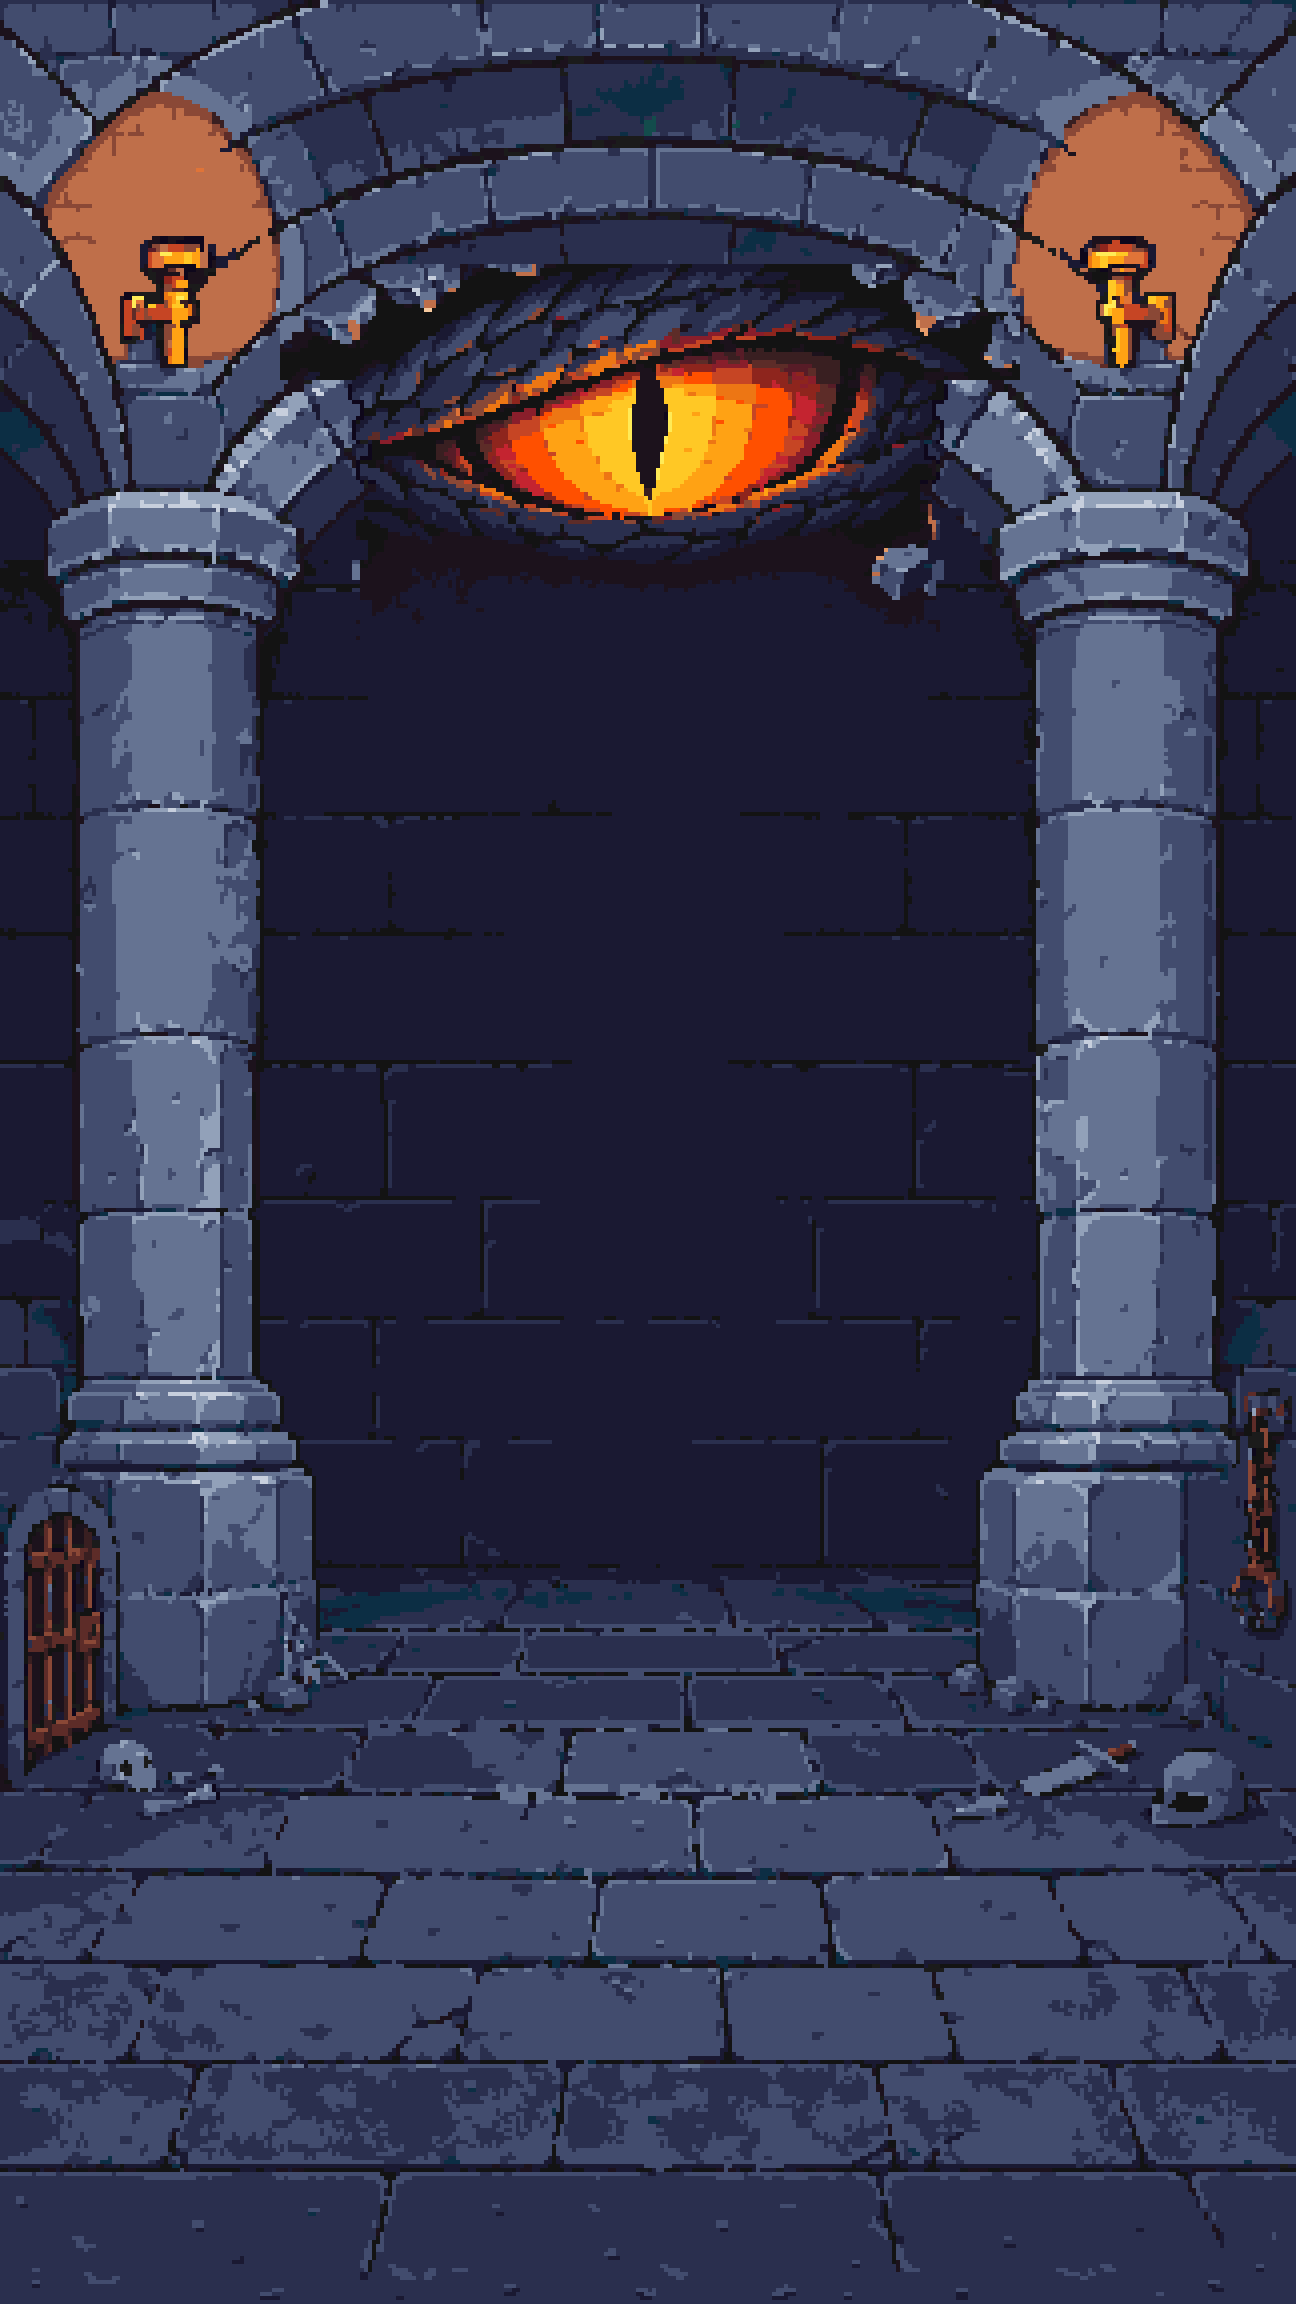
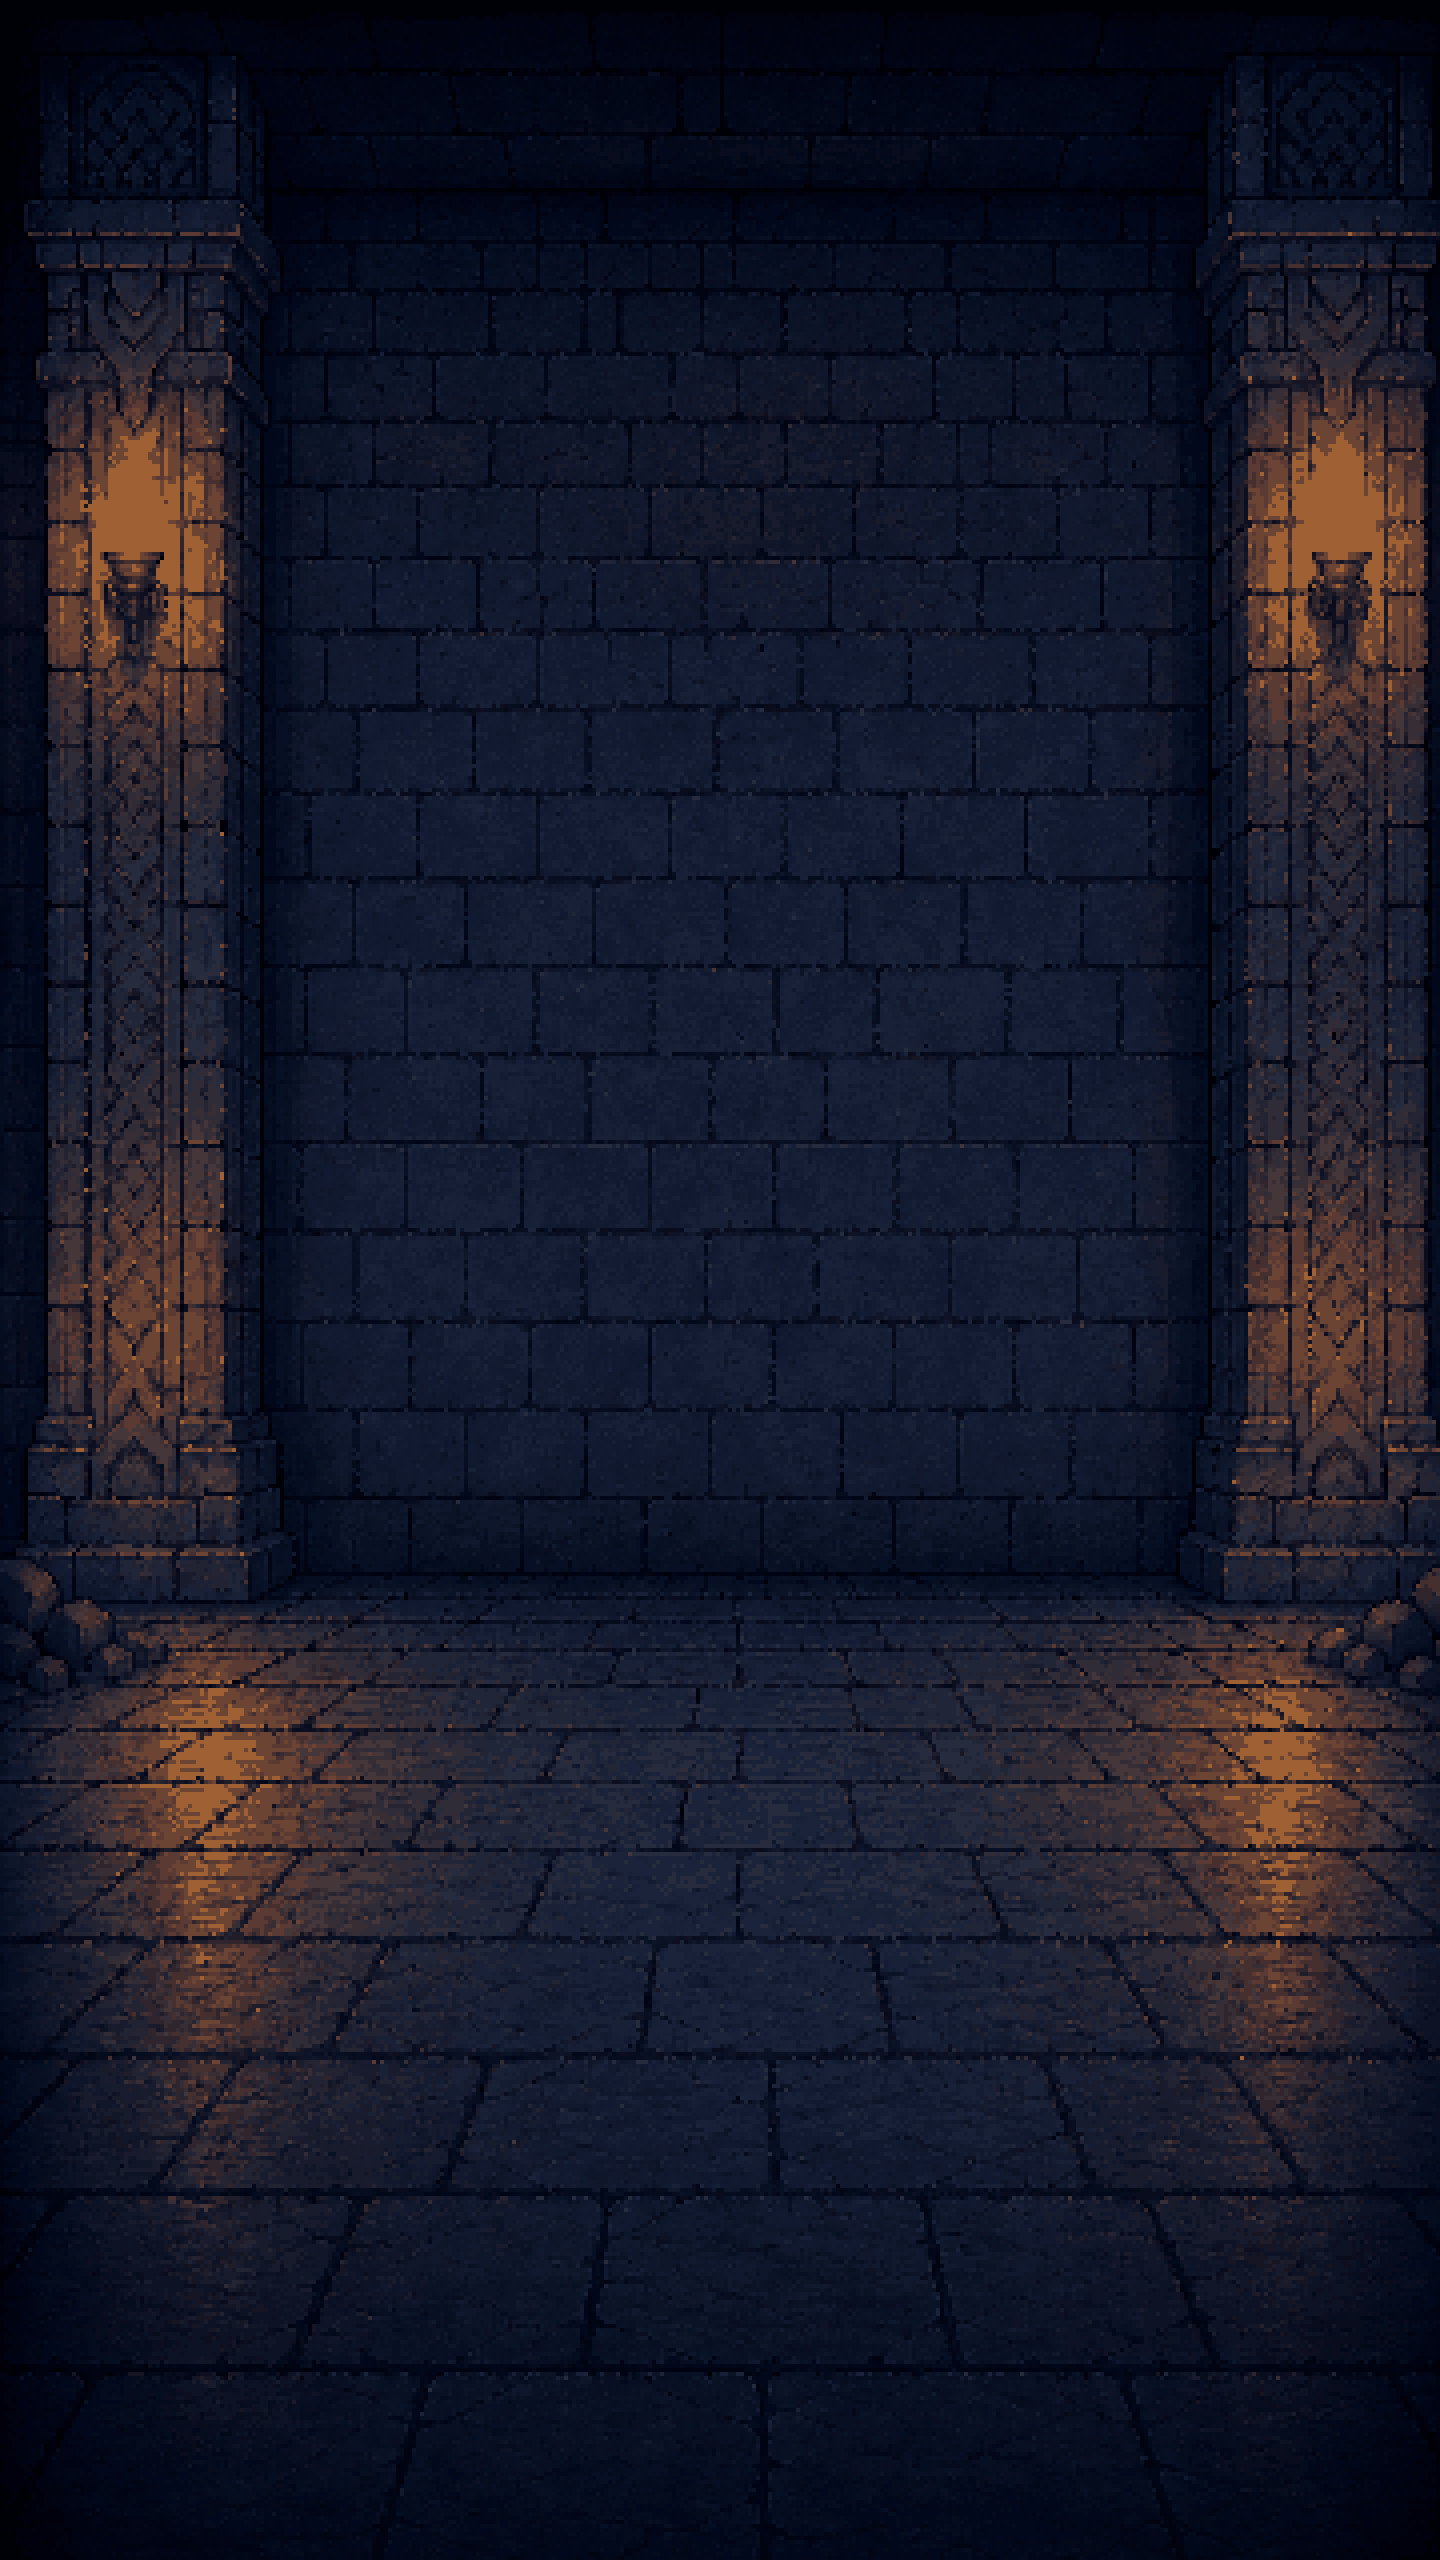
Pratala: new hall backgrounds, the eye's breach follows the board
The halls are remade (one room: a cold stone hall, and the same hall
burnt and broken for free spins) at 640x360 / 360x640 art pixels,
painted with the back wall intact. The dragon's eye in its breach is
now a layer that follows the board: centred over it, between the header
and the frame, 30% tucked behind the frame's top band, so it shows on
every screen shape. Torches and floor fires are placed for the new
halls; the floor fires are cut to a few small licks and the torch light
is dimmed, since the new halls paint their own lava and torch glow.

diff --git a/apps/pratala/src/components/Background.svelte b/apps/pratala/src/components/Background.svelte
@@ -16,6 +16,9 @@
 	import { getContext } from '../game/context';
 	import { FLOOR_FIRES } from '../game/floorFires';
 	import { TORCHES } from '../game/torches';
+	import { EYES } from '../game/dragonEye';
+	import { FRAME_ART_PIXEL } from '../game/constants';
+	import { stateUi } from 'state-shared';
 	import { animate } from '../game/motion';
 	import { createHallHeat, HEAT_FROM, HEAT_TO, type HallHeat } from '../game/hallHeat';
 	import { hallMood } from '../game/hallMood.svelte';
@@ -24,9 +27,10 @@
 	import FloorFires from './FloorFires.svelte';
 	import Torches from './Torches.svelte';
 
-	// The dragon's hall, in a wide and a tall composition (576 × 324 and 324 × 576 art pixels).
-	// The dragon's eye looks out of the broken back wall; its blinks and glances are drawn over the
-	// picture (DragonEye).
+	// The dragon's hall, in a wide and a tall composition (640 × 360 and 360 × 640 art pixels), one
+	// room: a cold stone hall, and the same hall burnt and broken for free spins (remade 2026-11-18,
+	// workspace output/dragon/bg-2026-11-18). The dragon's eye looks out of a breach in the back
+	// wall, a layer that follows the board (DragonEye, below).
 	// Its torches are painted without their flames, which burn over the picture (Torches); in the
 	// bonus hall fires burn on the floor too (FloorFires).
 	// Each covers the canvas; the tall one is used where the screen is taller than it is wide.
@@ -35,8 +39,8 @@
 	// fires fade over the other's. Anything else that sets the game type (a resumed round, a new
 	// spin) changes the hall at once.
 	const SIZES = {
-		Landscape: { width: 576, height: 324 },
-		Portrait: { width: 324, height: 576 },
+		Landscape: { width: 640, height: 360 },
+		Portrait: { width: 360, height: 640 },
 	};
 
 	const context = getContext();
@@ -64,6 +68,32 @@
 			origin: {
 				x: canvas.width * 0.5 - sizes.width * scale * 0.5,
 				y: canvas.height * 0.5 - sizes.height * scale * 0.5,
+			},
+		};
+	});
+	// The eye in its breach is a layer of its own that follows the board, so it shows whatever the
+	// screen's shape: centred over the board, between the header and the frame's top band, its
+	// lower TUCK behind the band, as big as that gap allows and never bigger than painted. The user
+	// picked 30% from a prototype (2026-11-17): at half, the frame hid half the iris on desktops.
+	const TUCK = 0.3;
+	// the eye's layer: its own origin and art pixel, so the breach and the eye's frames land on it
+	const eyeLayer = $derived.by(() => {
+		const main = context.stateLayoutDerived.mainLayout();
+		const board = context.stateGameDerived.boardLayout();
+		const toX = (u: number) => main.x + (u - 0.5 * main.width) * main.scale;
+		const toY = (u: number) => main.y + (u - 0.5 * main.height) * main.scale;
+		const bandTop = toY(board.y - board.height / 2 - 34 * FRAME_ART_PIXEL);
+		const centre = toX(board.x);
+		const headerBottom = stateUi.hudInset.top + 4;
+		const eye = EYES[shape];
+		const room = (bandTop - headerBottom) / (1 - TUCK);
+		const scale = Math.max(0.2, Math.min(flameProps.scale, room / eye.height));
+		const bottom = bandTop + eye.height * scale * TUCK;
+		return {
+			scale,
+			origin: {
+				x: centre - (eye.x + eye.width / 2) * scale,
+				y: bottom - (eye.y + eye.height) * scale,
 			},
 		};
 	});
@@ -230,13 +260,13 @@
 <!-- what moves over the pictures: each hall's eye and torches, and the boss hall's floor fires -->
 {#if mix < 1}
 	<Container zIndex={-1} alpha={1 - mix}>
-		<DragonEye hall="Base" {shape} {...flameProps} />
+		<DragonEye hall="Base" {shape} {...eyeLayer} />
 		<Torches torches={TORCHES[shape].base} flare={flare.current} {...flameProps} />
 	</Container>
 {/if}
 {#if mix > 0}
 	<Container zIndex={-1} alpha={Math.min(1, mix * 1.5)}>
-		<DragonEye hall="Bonus" {shape} {...flameProps} />
+		<DragonEye hall="Bonus" {shape} {...eyeLayer} />
 		<FloorFires
 			fires={FLOOR_FIRES[shape]}
 			burning

diff --git a/apps/pratala/src/game/floorFires.ts b/apps/pratala/src/game/floorFires.ts
@@ -16,35 +16,18 @@ export const FLOOR_FIRE_KINDS = {
 export type FloorFire = { kind: keyof typeof FLOOR_FIRE_KINDS; x: number; y: number; flip?: boolean };
 
 export const FLOOR_FIRES: Record<'Landscape' | 'Portrait', FloorFire[]> = {
-	// the floor starts at y 262
+	// the halls remade on 2026-11-18 have their own lava in the floor's cracks: only a few small
+	// fires lick up from them, near the sides (the floor starts at y 285 wide, 390 tall)
 	Landscape: [
-		{ kind: 'lick', x: 150, y: 264 },
-		{ kind: 'lick', x: 426, y: 265, flip: true },
-		{ kind: 'patch', x: 28, y: 267 },
-		{ kind: 'patch', x: 552, y: 268, flip: true },
-		{ kind: 'tall', x: 474, y: 271 },
-		{ kind: 'creep', x: 92, y: 275 },
-		{ kind: 'bed', x: 528, y: 286, flip: true },
-		{ kind: 'lick', x: 122, y: 290 },
-		{ kind: 'patch', x: 352, y: 292 },
-		{ kind: 'run', x: 436, y: 298 },
-		{ kind: 'bed', x: 186, y: 302 },
-		{ kind: 'patch', x: 66, y: 306, flip: true },
-		{ kind: 'lick', x: 506, y: 312 },
-		{ kind: 'creep', x: 300, y: 316, flip: true },
+		{ kind: 'lick', x: 40, y: 298 },
+		{ kind: 'lick', x: 600, y: 300, flip: true },
+		{ kind: 'patch', x: 150, y: 318 },
+		{ kind: 'patch', x: 492, y: 316, flip: true },
 	],
-	// the floor starts at y 405
 	Portrait: [
-		{ kind: 'patch', x: 62, y: 412 },
-		{ kind: 'lick', x: 250, y: 414, flip: true },
-		{ kind: 'creep', x: 122, y: 424 },
-		{ kind: 'tall', x: 214, y: 444 },
-		{ kind: 'lick', x: 160, y: 458 },
-		{ kind: 'run', x: 238, y: 482, flip: true },
-		{ kind: 'bed', x: 74, y: 494 },
-		{ kind: 'patch', x: 300, y: 508, flip: true },
-		{ kind: 'lick', x: 28, y: 522 },
-		{ kind: 'creep', x: 176, y: 534, flip: true },
-		{ kind: 'patch', x: 96, y: 556 },
+		{ kind: 'lick', x: 40, y: 420 },
+		{ kind: 'lick', x: 322, y: 418, flip: true },
+		{ kind: 'patch', x: 108, y: 456 },
+		{ kind: 'patch', x: 252, y: 452, flip: true },
 	],
 };

diff --git a/apps/pratala/src/game/dragonEye.ts b/apps/pratala/src/game/dragonEye.ts
@@ -1,7 +1,7 @@
-// The dragon is too large to be seen whole: only one eye shows, behind the broken back wall,
-// painted into the backgrounds (static/assets/backgrounds). The eye is painted there
-// open; the game draws its other frames over it from a strip (static/assets/eye), in the
-// background's own art pixels.
+// The dragon is too large to be seen whole: only one eye shows, through a breach in the back wall.
+// The halls (static/assets/backgrounds) are painted with the wall intact; the breach with the eye
+// in it is its own layer that follows the board (components/Background.svelte), drawn from a strip
+// of frames (static/assets/eye), each the breach box's size in the hall's own art pixels.
 export const EYE_FRAMES = [
 	'open',
 	'half',
@@ -14,10 +14,11 @@ export const EYE_FRAMES = [
 
 export type EyeFrame = (typeof EYE_FRAMES)[number];
 
-// the eye's box in each composition, the same in the base and the bonus hall
+// the breach's box in each composition, where it was painted, the same in the base and the bonus
+// hall (workspace output/dragon/bg-2026-11-18/compose.py cut it out)
 export const EYES = {
-	Landscape: { x: 234, y: 8, width: 112, height: 66 },
-	Portrait: { x: 100, y: 76, width: 128, height: 68 },
+	Landscape: { x: 240, y: 12, width: 164, height: 106 },
+	Portrait: { x: 110, y: 58, width: 145, height: 78 },
 } as const;
 
 // the strips are drawn four strip pixels to an art pixel

diff --git a/apps/pratala/src/game/torches.ts b/apps/pratala/src/game/torches.ts
@@ -9,22 +9,22 @@ export type Torch = { x: number; y: number; width: number; height: number };
 export const TORCHES: Record<'Landscape' | 'Portrait', Record<'base' | 'bonus', Torch[]>> = {
 	Landscape: {
 		base: [
-			{ x: 71.5, y: 118, width: 22, height: 60 },
-			{ x: 504.5, y: 118, width: 22, height: 60 },
+			{ x: 124, y: 185, width: 24, height: 64 },
+			{ x: 514, y: 185, width: 24, height: 64 },
 		],
 		bonus: [
-			{ x: 67.5, y: 118, width: 38, height: 72 },
-			{ x: 508, y: 118, width: 38, height: 72 },
+			{ x: 124, y: 185, width: 38, height: 78 },
+			{ x: 514, y: 185, width: 38, height: 78 },
 		],
 	},
 	Portrait: {
 		base: [
-			{ x: 44, y: 59, width: 24, height: 60 },
-			{ x: 279.5, y: 59, width: 24, height: 60 },
+			{ x: 33, y: 138, width: 20, height: 54 },
+			{ x: 335, y: 138, width: 20, height: 54 },
 		],
 		bonus: [
-			{ x: 43.5, y: 59, width: 30, height: 66 },
-			{ x: 280.5, y: 59, width: 30, height: 66 },
+			{ x: 33, y: 147, width: 28, height: 64 },
+			{ x: 330, y: 147, width: 28, height: 64 },
 		],
 	},
 };

diff --git a/apps/pratala/src/components/DragonEye.svelte b/apps/pratala/src/components/DragonEye.svelte
@@ -180,8 +180,8 @@
 	});
 </script>
 
-<!-- the open eye is the picture itself -->
-{#if texture && frame !== 'open'}
+<!-- the eye in its breach, every frame from the strip (the hall is painted without it) -->
+{#if texture}
 	<BaseSprite
 		{texture}
 		x={props.origin.x + eye.x * props.scale}

diff --git a/apps/pratala/src/components/Torches.svelte b/apps/pratala/src/components/Torches.svelte
@@ -34,8 +34,8 @@
 	const LIGHT = {
 		tint: 0xffa214,
 		// the pool across, in flame heights, and how strongly it adds to the picture
-		size: 2.2,
-		alpha: 0.6,
+		size: 1.8,
+		alpha: 0.3,
 		// how far the flame's heat swings the pool's size and strength
 		swell: 0.12,
 		flicker: 1,
